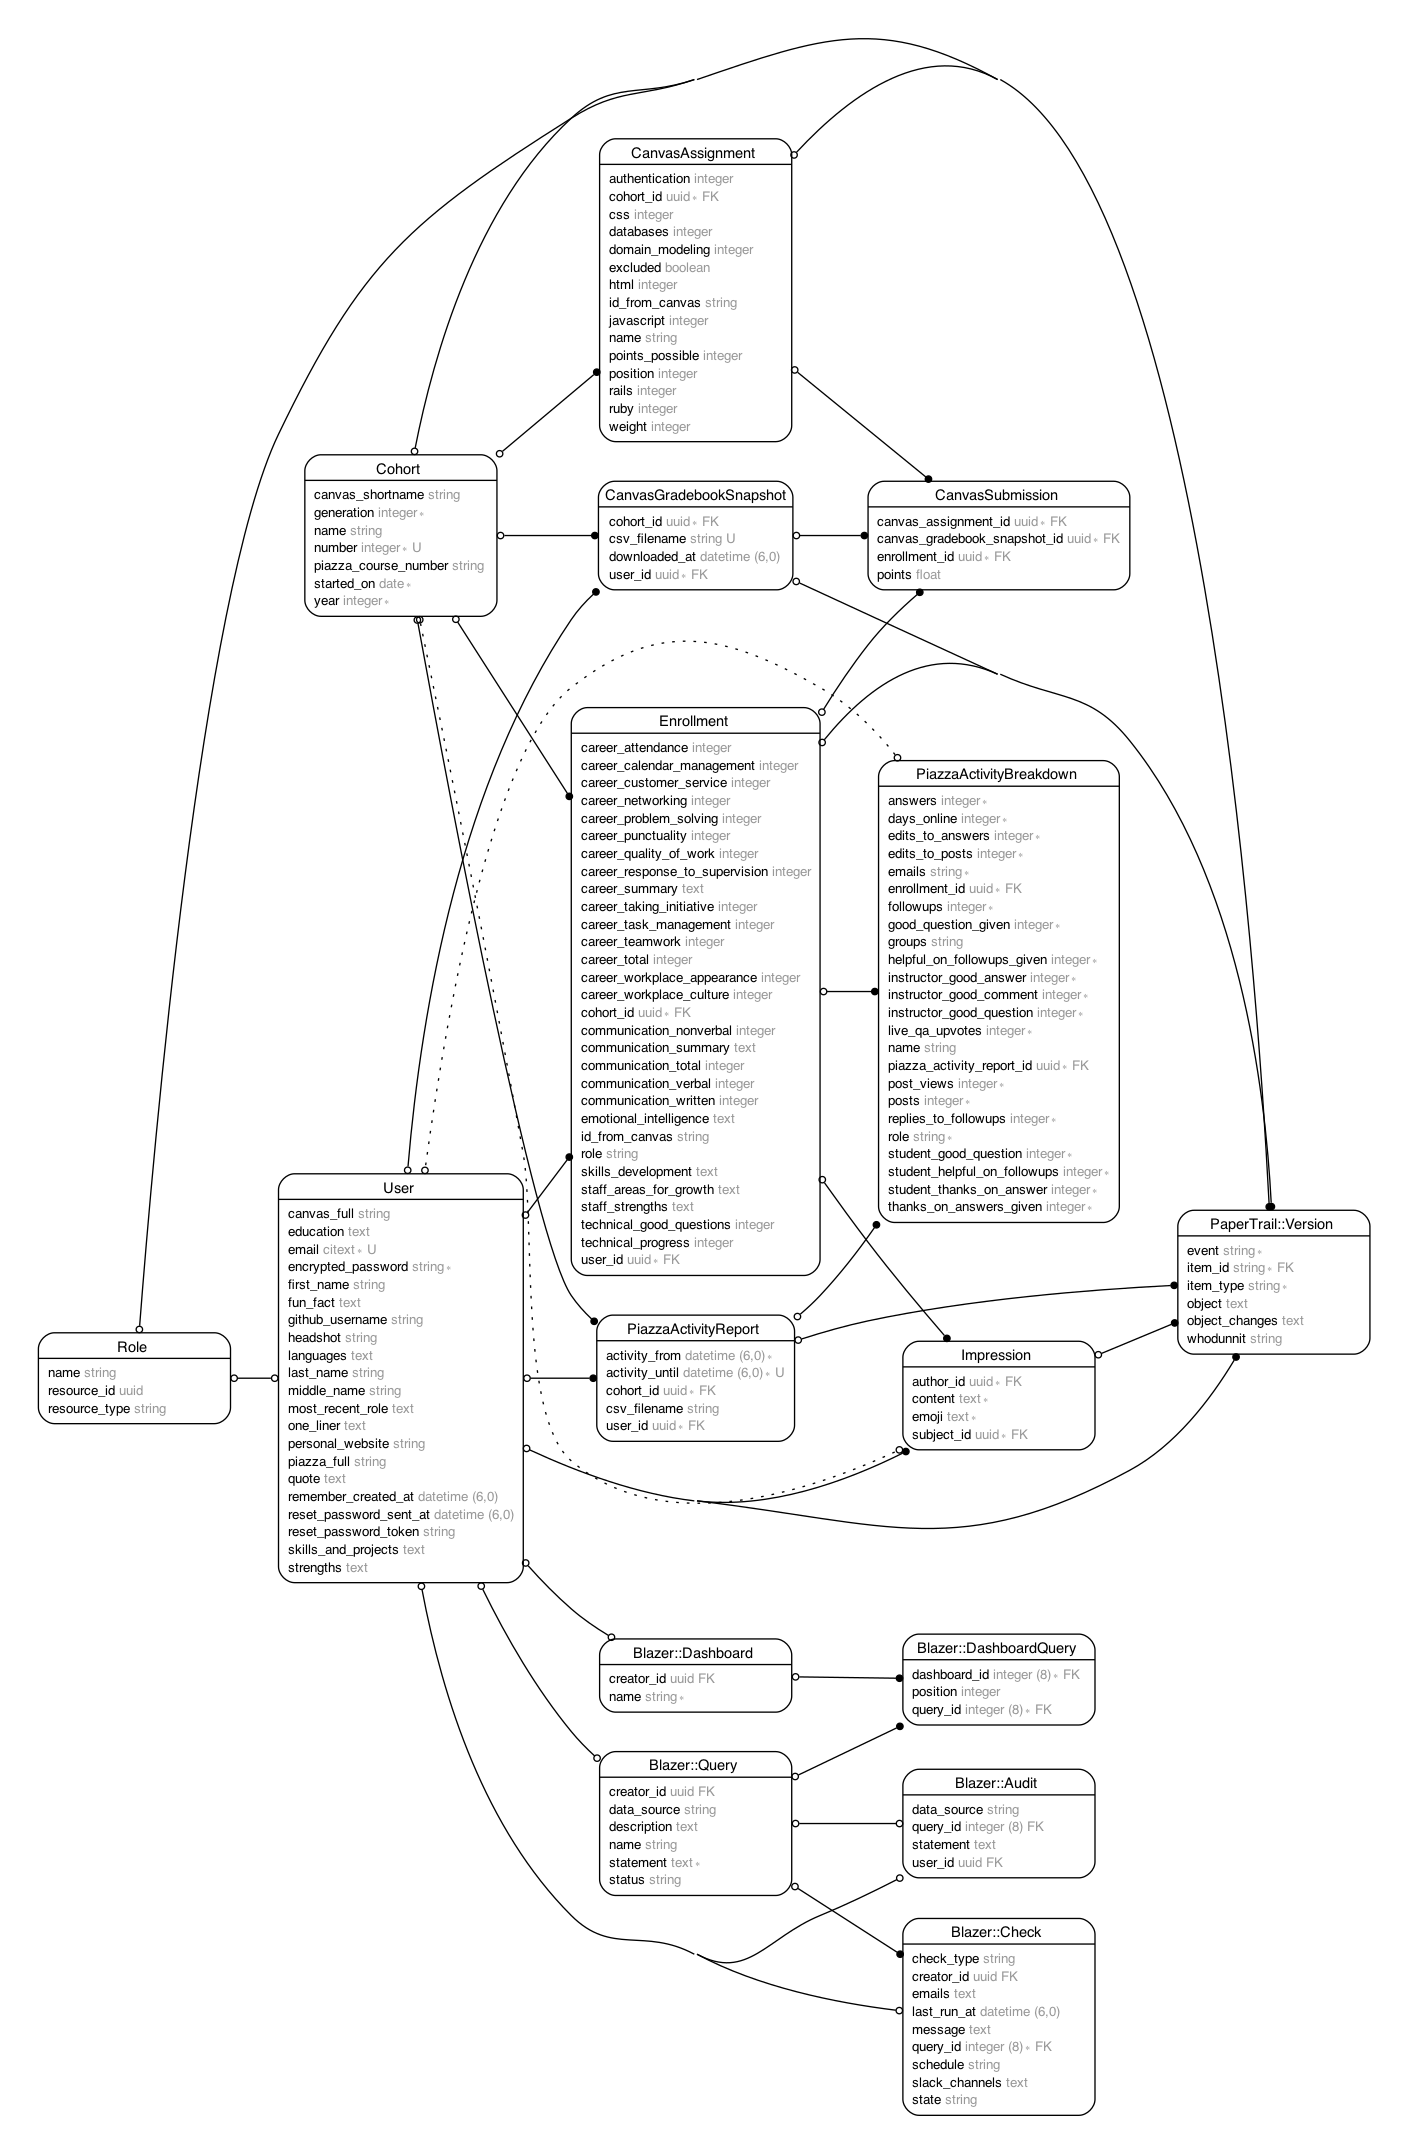
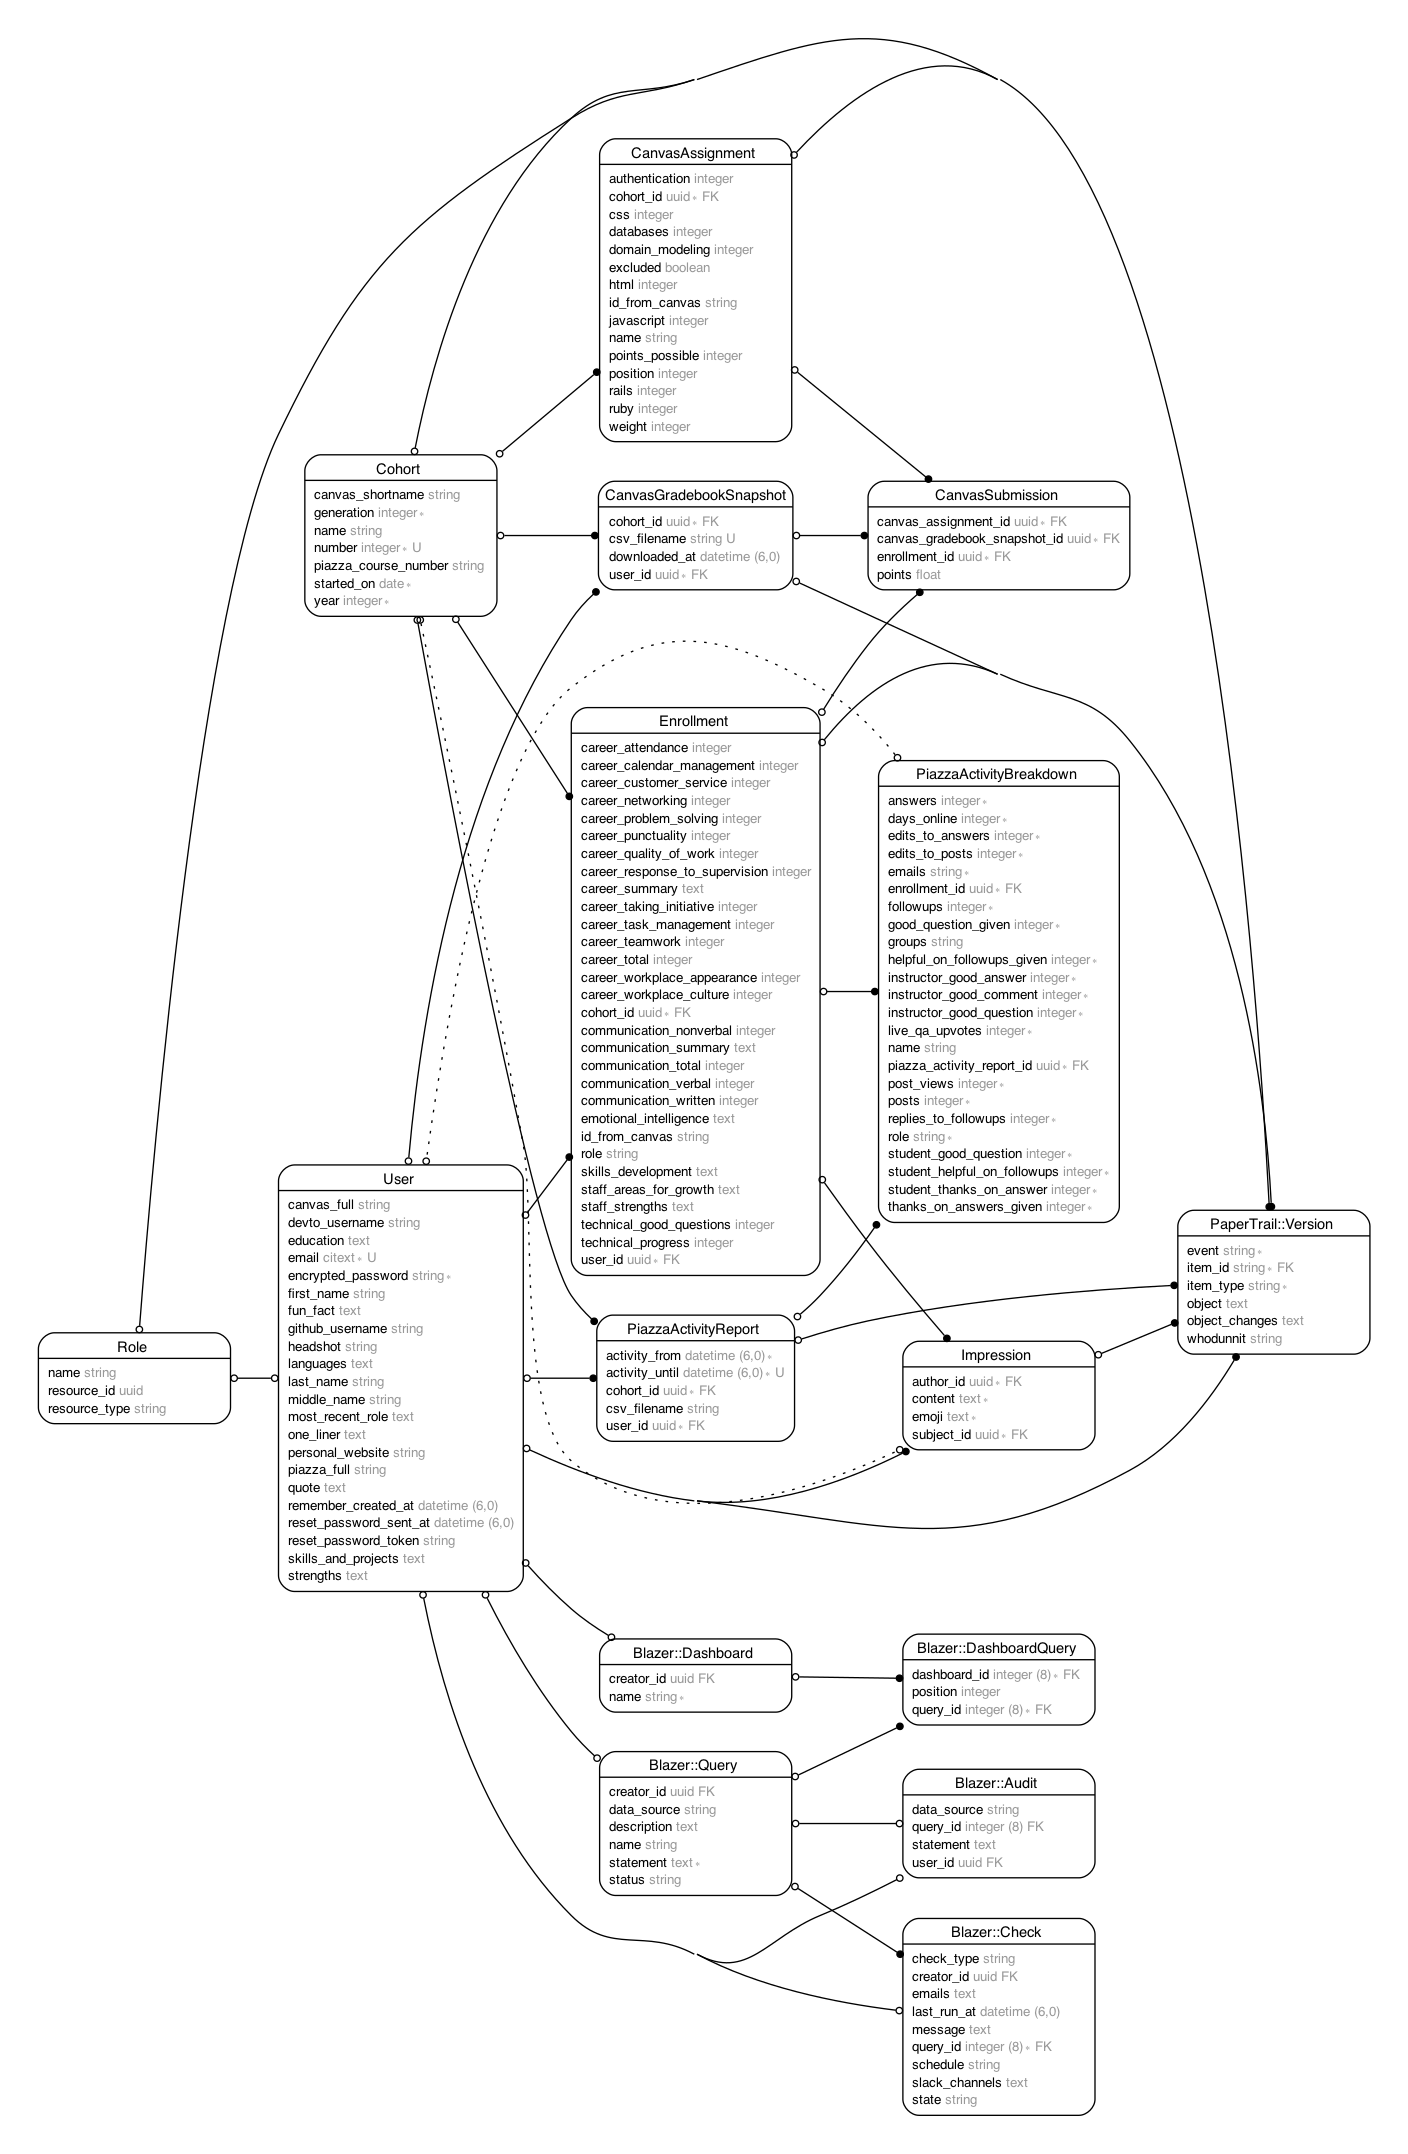
for rails admin

Changed region(s): [[0.1875, 0.5288, 0.375, 0.7465]]

diff --git a/app/policies/application_policy.rb b/app/policies/application_policy.rb
@@ -44,6 +44,10 @@ class ApplicationPolicy
     @user.has_role?(:admin) 
   end
   
+  def history?
+    @user.has_role?(:admin)
+  end
+
   class Scope
     def initialize(user, scope)
       @user = user
@@ -51,7 +55,7 @@ class ApplicationPolicy
     end
 
     def resolve
-      raise NotImplementedError, "You must define #resolve in #{self.class}"
+      scope
     end
 
     private

diff --git a/db/schema.rb b/db/schema.rb
@@ -253,6 +253,7 @@ ActiveRecord::Schema[7.0].define(version: 2023_06_15_162606) do
     t.string "last_name"
     t.text "one_liner"
     t.text "skills_and_projects"
+    t.text "career_highlights"
     t.string "headshot"
     t.index ["email"], name: "index_users_on_email", unique: true
     t.index ["github_username"], name: "index_users_on_github_username", unique: true

diff --git a/app/models/user.rb b/app/models/user.rb
@@ -4,6 +4,7 @@
 #
 #  id                     :uuid             not null, primary key
 #  canvas_full            :string
+#  devto_username         :string
 #  education              :text
 #  email                  :citext           default(""), not null
 #  encrypted_password     :string           default(""), not null

diff --git a/spec/models/user_spec.rb b/spec/models/user_spec.rb
@@ -4,6 +4,7 @@
 #
 #  id                     :uuid             not null, primary key
 #  canvas_full            :string
+#  devto_username         :string
 #  education              :text
 #  email                  :citext           default(""), not null
 #  encrypted_password     :string           default(""), not null
